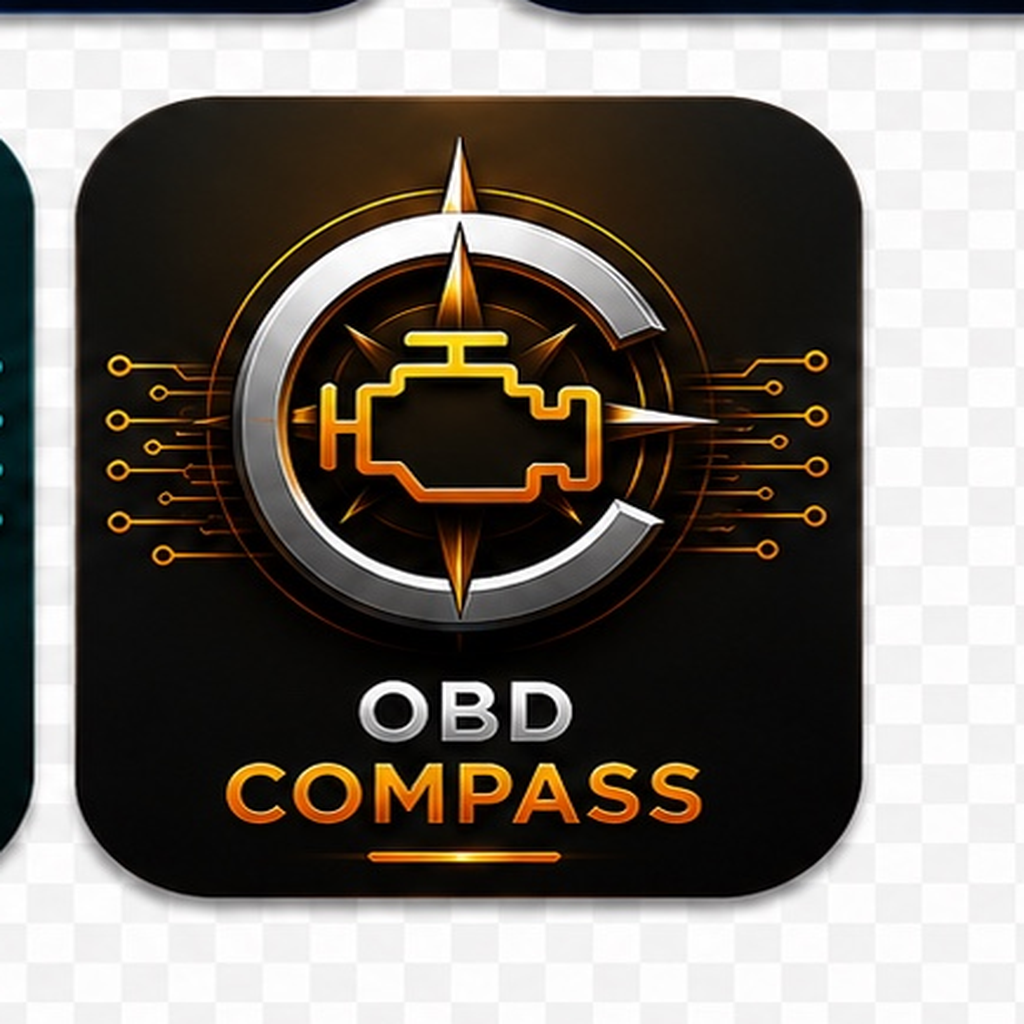
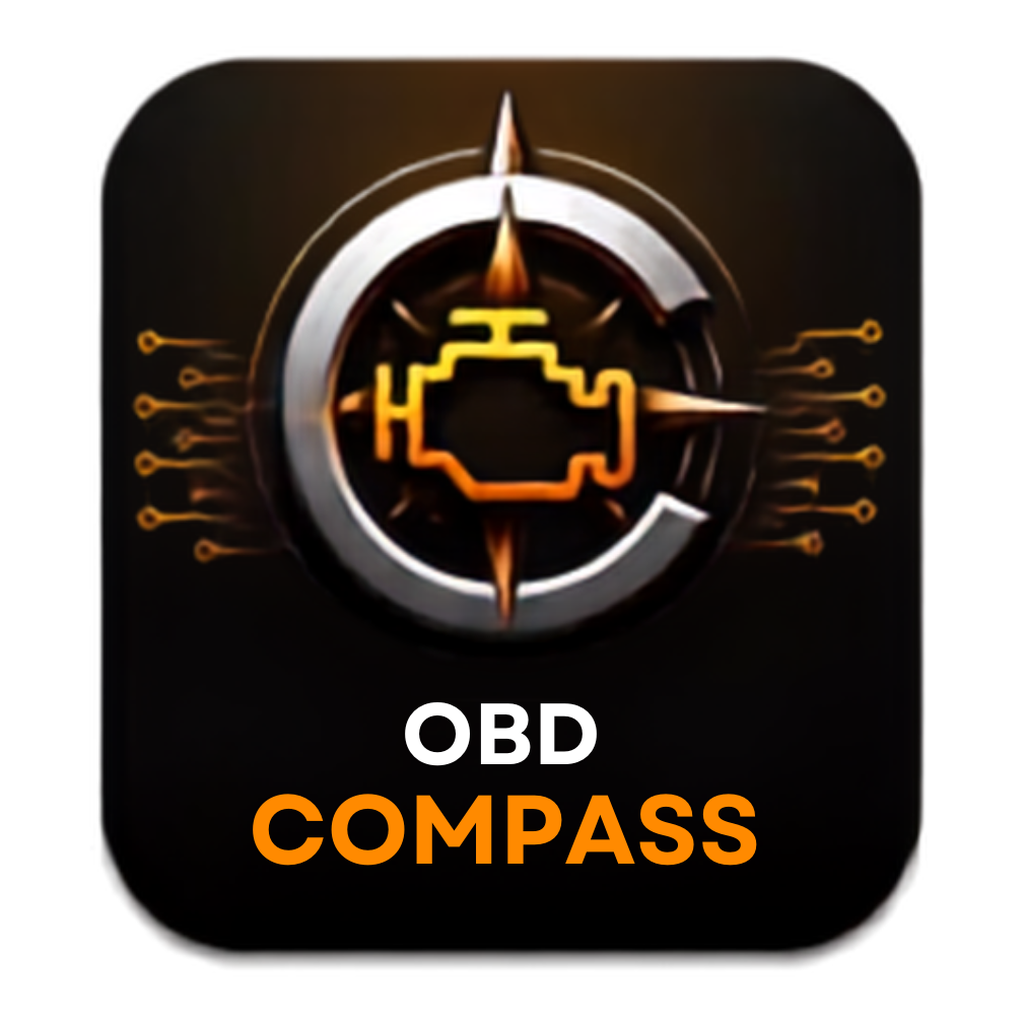
Add files via upload
Update Wyatt & Co website and replace official logo

diff --git a/index.html b/index.html
@@ -122,7 +122,8 @@
         <p>Diagnostics made clearer.</p>
         <b>Explore app →</b>
       </div>
-    </a></div>
+    </a>
+    </div>
   </div>
 </section>
 
@@ -138,7 +139,6 @@
     </div>
   </div>
 </section>
-
 
 <section class="section founder-section">
   <div class="container founder-grid">
@@ -187,6 +187,5 @@
   </div>
 </footer>
 <script src="script.js"></script>
-
 </body>
 </html>

diff --git a/apps.html b/apps.html
@@ -95,7 +95,8 @@
         <p>Diagnostics made clearer.</p>
         <b>Explore app →</b>
       </div>
-    </a></div></div>
+    </a>
+  </div></div>
 </section>
 </main>
 
@@ -116,6 +117,5 @@
   </div>
 </footer>
 <script src="script.js"></script>
-
 </body>
 </html>

diff --git a/about.html b/about.html
@@ -58,6 +58,5 @@
   </div>
 </footer>
 <script src="script.js"></script>
-
 </body>
 </html>

diff --git a/aquariumcompass.html b/aquariumcompass.html
@@ -75,6 +75,5 @@
   </div>
 </footer>
 <script src="script.js"></script>
-
 </body>
 </html>

diff --git a/contact.html b/contact.html
@@ -64,6 +64,5 @@
   </div>
 </footer>
 <script src="script.js"></script>
-
 </body>
 </html>

diff --git a/cruisecompass.html b/cruisecompass.html
@@ -75,6 +75,5 @@
   </div>
 </footer>
 <script src="script.js"></script>
-
 </body>
 </html>

diff --git a/myfamilycompass.html b/myfamilycompass.html
@@ -75,6 +75,5 @@
   </div>
 </footer>
 <script src="script.js"></script>
-
 </body>
 </html>

diff --git a/obdcompass.html b/obdcompass.html
@@ -75,6 +75,5 @@
   </div>
 </footer>
 <script src="script.js"></script>
-
 </body>
 </html>

diff --git a/patent.html b/patent.html
@@ -74,6 +74,5 @@
   </div>
 </footer>
 <script src="script.js"></script>
-
 </body>
 </html>

diff --git a/privacy.html b/privacy.html
@@ -51,6 +51,5 @@
   </div>
 </footer>
 <script src="script.js"></script>
-
 </body>
 </html>

diff --git a/terms.html b/terms.html
@@ -50,6 +50,5 @@
   </div>
 </footer>
 <script src="script.js"></script>
-
 </body>
 </html>

diff --git a/travelcompass.html b/travelcompass.html
@@ -75,6 +75,5 @@
   </div>
 </footer>
 <script src="script.js"></script>
-
 </body>
 </html>
